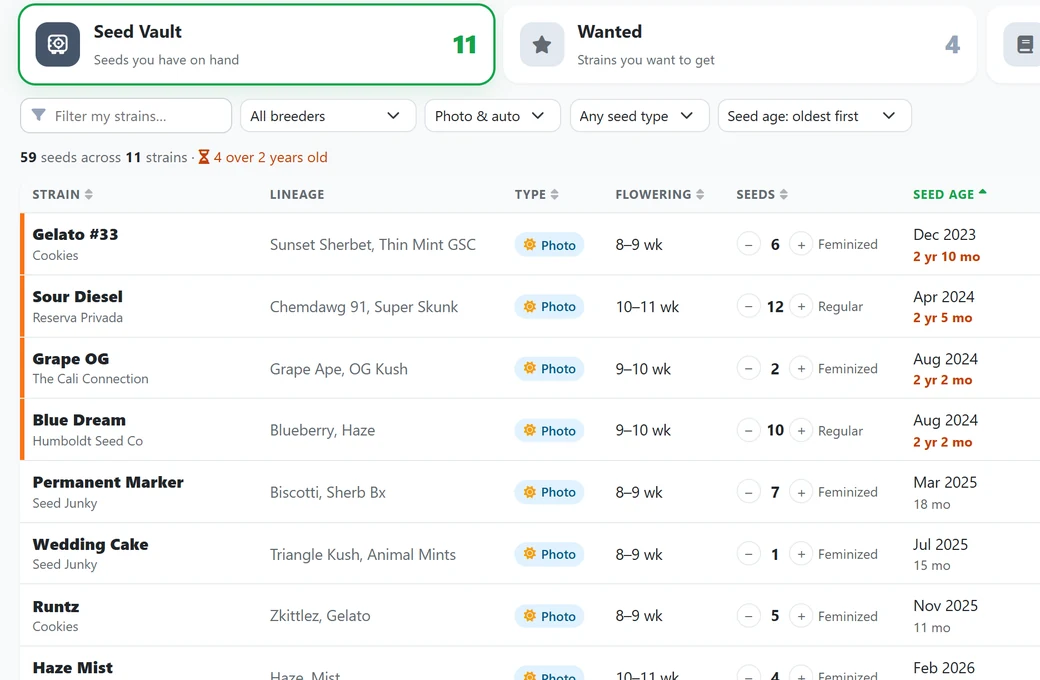
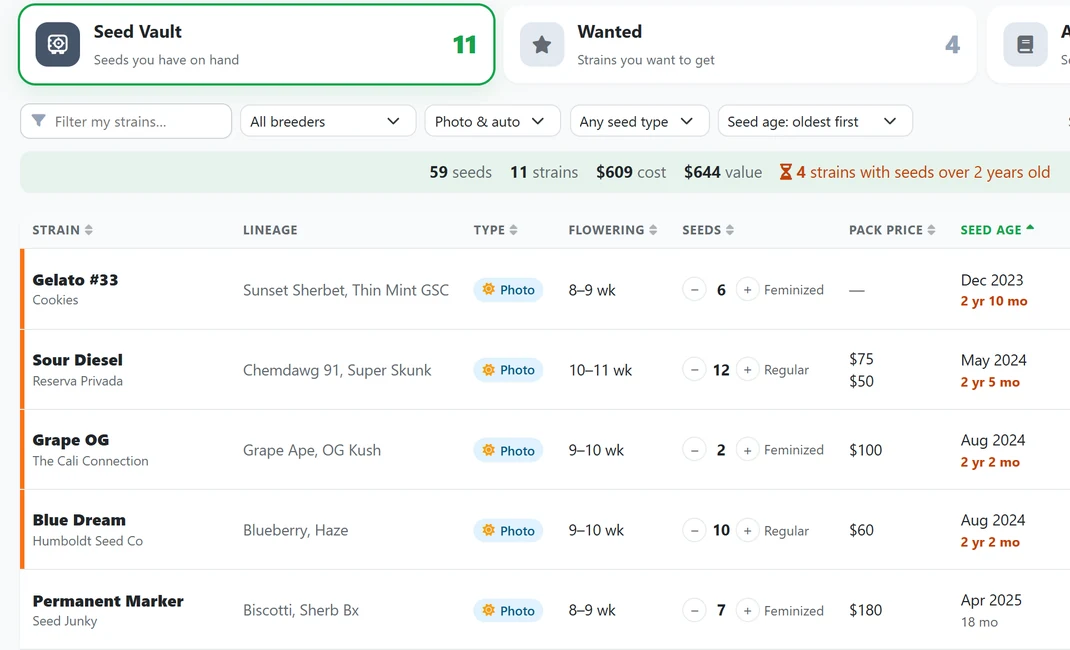
Alerts (Beta) card; new Seed Vault pictures and seed age wording
A new 04 Alerts card with a Beta pill and a Settings > Alerts picture.
Seed Vault shows pack prices and the cost and value totals, and warns
when seeds pass two years old instead of a "batch". Today's card says
"Below these tasks" so it isn't confused with the Alerts card.

diff --git a/index.html b/index.html
@@ -94,6 +94,7 @@ header img { height: 44px !important; } header .wrap { height: 84px !important; 
 .divider { display: flex; align-items: center; justify-content: center; gap: 1rem; color: var(--leaf); margin: 0 auto 1rem; max-width: 320px; }
 .divider::before, .divider::after { content: ""; flex: 1; height: 2px; border-radius: 2px; background: linear-gradient(90deg, transparent, #c9b98f); }
 .divider::after { background: linear-gradient(90deg, #c9b98f, transparent); }
+.feat h3 .tag { vertical-align: middle; font-family: system-ui, sans-serif; font-size: .72rem; text-transform: uppercase; letter-spacing: .06em; background: #fef3c7; color: #92400e; border-radius: 99px; padding: .2rem .6rem; margin-left: .5rem; }
 .demo h2 .tag { vertical-align: middle; font-family: system-ui, sans-serif; font-size: .8rem; text-transform: uppercase; letter-spacing: .06em; background: #fef3c7; color: #92400e; border-radius: 99px; padding: .2rem .65rem; margin-left: .4rem; }
 </style></head><body>
 <header><div class="wrap"><img src="img/budminder-wordmark.svg" alt="BudMinder"><nav><a href="#features">Features</a><a href="#demo">Demo</a><a href="#install">Install</a><a href="https://github.com/SirBusta/budminder">GitHub</a></nav></div></header>
@@ -103,7 +104,7 @@ header img { height: 44px !important; } header .wrap { height: 84px !important; 
 <div class="band"><div class="wrap"><h2 class="serif">Why growers use it</h2><p class="lead">Track your grow with a journal that stays on your own hardware.</p>
 <div class="why"><div><i class="fa-solid fa-server"></i><h3 class="serif">Your grow, on your hardware</h3><p>No cloud accounts, no corporate tracking, and no treating your data as a commodity to be sold.</p></div><div><i class="fa-solid fa-code-branch"></i><h3 class="serif">Free and open source</h3><p>No subscriptions or paid tiers. The code is public under the MIT license.</p></div><div><i class="fa-solid fa-camera"></i><h3 class="serif">Connect actions to results</h3><p>Each day&#x27;s notes, watering and feeding sit directly beside that day&#x27;s photos.</p></div><div><i class="fa-solid fa-joint"></i><h3 class="serif">Seed to smoke</h3><p>Rate every harvest or dispensary pickup. Dry and cure times fill themselves in.</p></div><div><i class="fa-solid fa-dna"></i><h3 class="serif">Instant strain lookups</h3><p>Import a strain in one click, complete with breeder, lineage, flowering times, cannabinoids and terpenes.</p></div><div><i class="fa-solid fa-temperature-half"></i><h3 class="serif">The hardware you already own</h3><p>AC Infinity, Ecowitt, and any sensor Home Assistant knows about.</p></div><div><i class="fa-solid fa-box-archive"></i><h3 class="serif">Easy to back up</h3><p>One click makes a single backup file you can restore on any computer.</p></div><div><i class="fa-solid fa-eye"></i><h3 class="serif">Read-only guest view</h3><p>Show your grow to friends without giving them editing access.</p></div></div></div></div>
 <section id="features"><div class="wrap"><h2 class="serif">From seed to jar</h2><p class="lead">Every stage of your grow, on pages designed to work seamlessly together.</p><span class="divider" aria-hidden="true"><i class="fa-solid fa-seedling"></i></span>
-<div class="feat"><div class="txt"><div class="num">01</div><h3 class="serif">Plant pages</h3><p>Every plant gets a journal page tracking its stages from germination to harvest, an estimated harvest window, and a daily notebook logging water, feeding, training, measurements and notes right beside that day&#x27;s photos.</p></div><a class="zoom" href="img/plant.webp" title="Click to see the whole page"><img src="img/crop-plant.webp" alt="Plant pages" loading="lazy"><span aria-label="See the whole page"><i class="fa-solid fa-magnifying-glass-plus"></i></span></a></div><div class="feat"><div class="txt"><div class="num">02</div><h3 class="serif">Today</h3><p>Open BudMinder and immediately see pending tasks: plants needing water or nutrients, offline sensors, and aging seed stock. Below your alerts, view each tent with its live climate readings and camera feed.</p></div><a class="zoom" href="img/home.webp" title="Click to see the whole page"><img src="img/crop-home.webp" alt="Today" loading="lazy"><span aria-label="See the whole page"><i class="fa-solid fa-magnifying-glass-plus"></i></span></a></div><div class="feat"><div class="txt"><div class="num">03</div><h3 class="serif">Environment</h3><p>Chart every sensor in a tent on a unified timeline, from the past hour to custom date ranges. Click anywhere on a graph to drop an inspection line displaying what every sensor recorded at that exact moment.</p></div><a class="zoom" href="img/environment.webp" title="Click to see the whole page"><img src="img/crop-environment.webp" alt="Environment" loading="lazy"><span aria-label="See the whole page"><i class="fa-solid fa-magnifying-glass-plus"></i></span></a></div><div class="feat"><div class="txt"><div class="num">04</div><h3 class="serif">Seed Vault</h3><p>Track active seed inventory, batch ages and physical storage locations, with automatic warnings when a pack passes two years. Start a new grow directly from your inventory list.</p></div><a class="zoom" href="img/strains.webp" title="Click to see the whole page"><img src="img/crop-strains.webp" alt="Seed Vault" loading="lazy"><span aria-label="See the whole page"><i class="fa-solid fa-magnifying-glass-plus"></i></span></a></div><div class="feat"><div class="txt"><div class="num">05</div><h3 class="serif">Smoke reports</h3><p>Rate home-grown or dispensary flower on bud quality, taste, smell and effects, then tag the aromas, flavors and effects you noticed from ready-made lists.</p></div><a class="zoom" href="img/smoke-report.webp" title="Click to see the whole page"><img src="img/crop-smoke-report.webp" alt="Smoke reports" loading="lazy"><span aria-label="See the whole page"><i class="fa-solid fa-magnifying-glass-plus"></i></span></a></div><div class="feat"><div class="txt"><div class="num">06</div><h3 class="serif">Help built in</h3><p>Click Help on any page to open contextual documentation, complete with numbered screenshot callouts matching the text.</p></div><a class="zoom" href="img/manual.webp" title="Click to see the whole page"><img src="img/crop-manual.webp" alt="Help built in" loading="lazy"><span aria-label="See the whole page"><i class="fa-solid fa-magnifying-glass-plus"></i></span></a></div>
+<div class="feat"><div class="txt"><div class="num">01</div><h3 class="serif">Plant pages</h3><p>Every plant gets a journal page tracking its stages from germination to harvest, an estimated harvest window, and a daily notebook logging water, feeding, training, measurements and notes right beside that day&#x27;s photos.</p></div><a class="zoom" href="img/plant.webp" title="Click to see the whole page"><img src="img/crop-plant.webp" alt="Plant pages" loading="lazy"><span aria-label="See the whole page"><i class="fa-solid fa-magnifying-glass-plus"></i></span></a></div><div class="feat"><div class="txt"><div class="num">02</div><h3 class="serif">Today</h3><p>Open BudMinder and immediately see pending tasks: plants needing water or nutrients, offline sensors, and aging seed stock. Below these tasks, view each tent with its live climate readings and camera feed.</p></div><a class="zoom" href="img/home.webp" title="Click to see the whole page"><img src="img/crop-home.webp" alt="Today" loading="lazy"><span aria-label="See the whole page"><i class="fa-solid fa-magnifying-glass-plus"></i></span></a></div><div class="feat"><div class="txt"><div class="num">03</div><h3 class="serif">Environment</h3><p>Chart every sensor in a tent on a unified timeline, from the past hour to custom date ranges. Click anywhere on a graph to drop an inspection line displaying what every sensor recorded at that exact moment.</p></div><a class="zoom" href="img/environment.webp" title="Click to see the whole page"><img src="img/crop-environment.webp" alt="Environment" loading="lazy"><span aria-label="See the whole page"><i class="fa-solid fa-magnifying-glass-plus"></i></span></a></div><div class="feat"><div class="txt"><div class="num">04</div><h3 class="serif">Alerts<span class="tag">Beta</span></h3><p>Get an email when a temperature, humidity or VPD reading reaches a limit you set for each growth stage, the lights turn on or off outside their schedule, any sensor reaches a value you choose, or sensors go offline. Brief spikes are ignored, and a reminder follows every 6 hours until the problem ends. Alerts are still being tested, so do not rely on them as your only safety check.</p></div><a class="zoom" href="img/alerts.webp" title="Click to see the whole page"><img src="img/crop-alerts.webp" alt="Alerts" loading="lazy"><span aria-label="See the whole page"><i class="fa-solid fa-magnifying-glass-plus"></i></span></a></div><div class="feat"><div class="txt"><div class="num">05</div><h3 class="serif">Seed Vault</h3><p>Track active seed inventory, seed ages and physical storage locations, with automatic warnings when seeds pass two years old. Start a new grow directly from your inventory list.</p></div><a class="zoom" href="img/strains.webp" title="Click to see the whole page"><img src="img/crop-strains.webp" alt="Seed Vault" loading="lazy"><span aria-label="See the whole page"><i class="fa-solid fa-magnifying-glass-plus"></i></span></a></div><div class="feat"><div class="txt"><div class="num">06</div><h3 class="serif">Smoke reports</h3><p>Rate home-grown or dispensary flower on bud quality, taste, smell and effects, then tag the aromas, flavors and effects you noticed from ready-made lists.</p></div><a class="zoom" href="img/smoke-report.webp" title="Click to see the whole page"><img src="img/crop-smoke-report.webp" alt="Smoke reports" loading="lazy"><span aria-label="See the whole page"><i class="fa-solid fa-magnifying-glass-plus"></i></span></a></div><div class="feat"><div class="txt"><div class="num">07</div><h3 class="serif">Help built in</h3><p>Click Help on any page to open contextual documentation, complete with numbered screenshot callouts matching the text.</p></div><a class="zoom" href="img/manual.webp" title="Click to see the whole page"><img src="img/crop-manual.webp" alt="Help built in" loading="lazy"><span aria-label="See the whole page"><i class="fa-solid fa-magnifying-glass-plus"></i></span></a></div>
 </div></section>
 <section id="works" class="tint"><div class="wrap"><h2 class="serif">Works with what you have</h2><p class="lead">BudMinder only reads your sensors. It never changes your device settings.</p>
 <div class="works"><span><i class="fa-solid fa-fan"></i><b>AC Infinity</b> · controllers, sensors and device ports</span><span><i class="fa-solid fa-tower-broadcast"></i><b>Ecowitt</b> · read straight from your gateway, no cloud account needed</span><span><i class="fa-solid fa-house-signal"></i><b>Home Assistant</b> · Govee, SwitchBot, Inkbird, Zigbee, ESPHome and more</span><span><i class="fa-solid fa-magnifying-glass"></i><b>Public strain databases</b> · one-click lookups with lineage, THC and CBD, effects and terpenes</span><span><i class="fa-solid fa-microchip"></i><b>Custom sensors</b> · a simple REST API for ESP32 and DIY boards</span><span><i class="fa-solid fa-video"></i><b>Cameras</b> · live streaming and snapshots</span></div></div></section>
